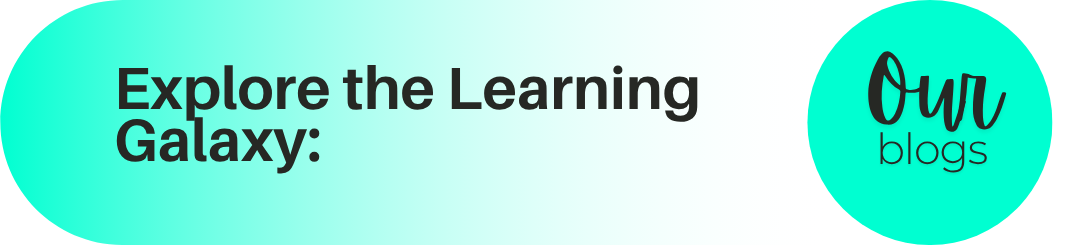
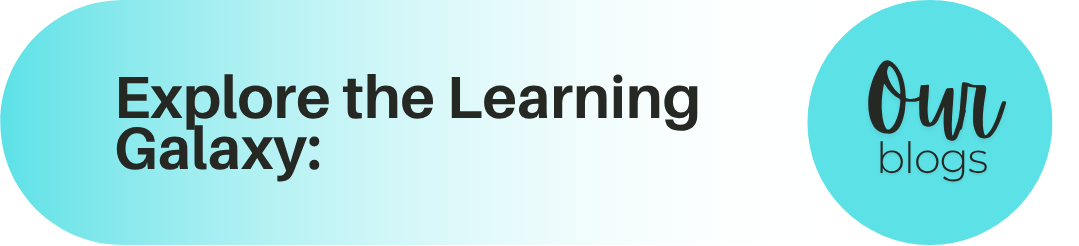
ou blogs colour changed & homepage image correction

diff --git a/Kidguides/home.css b/Kidguides/home.css
@@ -917,7 +917,7 @@ body {
         overflow: hidden;
         background-image: url("newbg.jpg");
         background-size: 100% 100%;
-        background-position: -15vw 10px;
+        background-position: -15vw ;
     }
 
     /* Heading styling adjustments */
